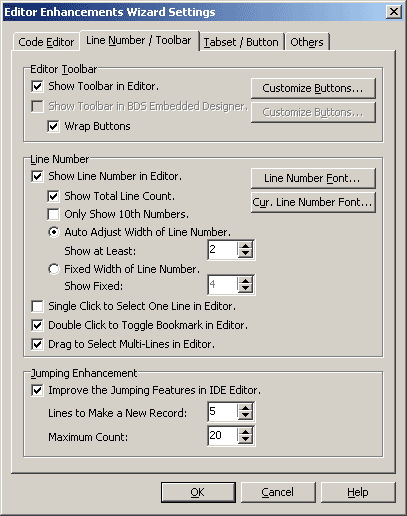
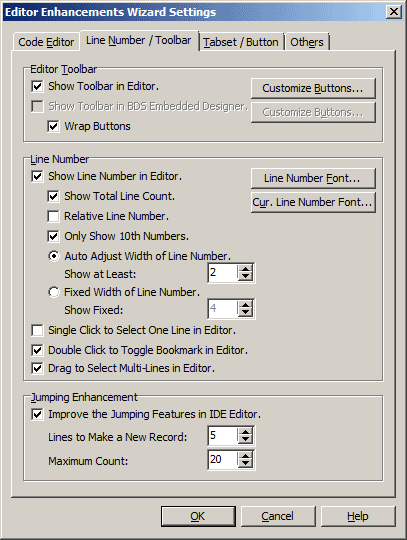
* [Editor Enhancement] Update Language Items and Help.

Changed region(s): [[0.0, 0.0, 0.973, 0.9922], [0.9435, 0.0, 1.0, 0.062]]

diff --git a/Help/CnWizards_ENU/srcedtenh/srcedtgutter.htm b/Help/CnWizards_ENU/srcedtenh/srcedtgutter.htm
@@ -64,6 +64,9 @@ Clicking Line Number Gutter can toggle bookmark. Clicking the lines count area i
 <p class="text"><b>Cur.Line Number Font</b>: Change font and color of current line number.</p>
   </li>
   <li>
+<p class="text"><b>Relative Line Number</b>: If checked, gutter will display the relative line distance to current line.</p>
+  </li>
+  <li>
 <p class="text"><b>Only Show 10th Numbers</b>: If checked, gutter won't display all line numbers. Only the 10th Numbers displayed like a ruler.</p>
   </li>
   <li>
